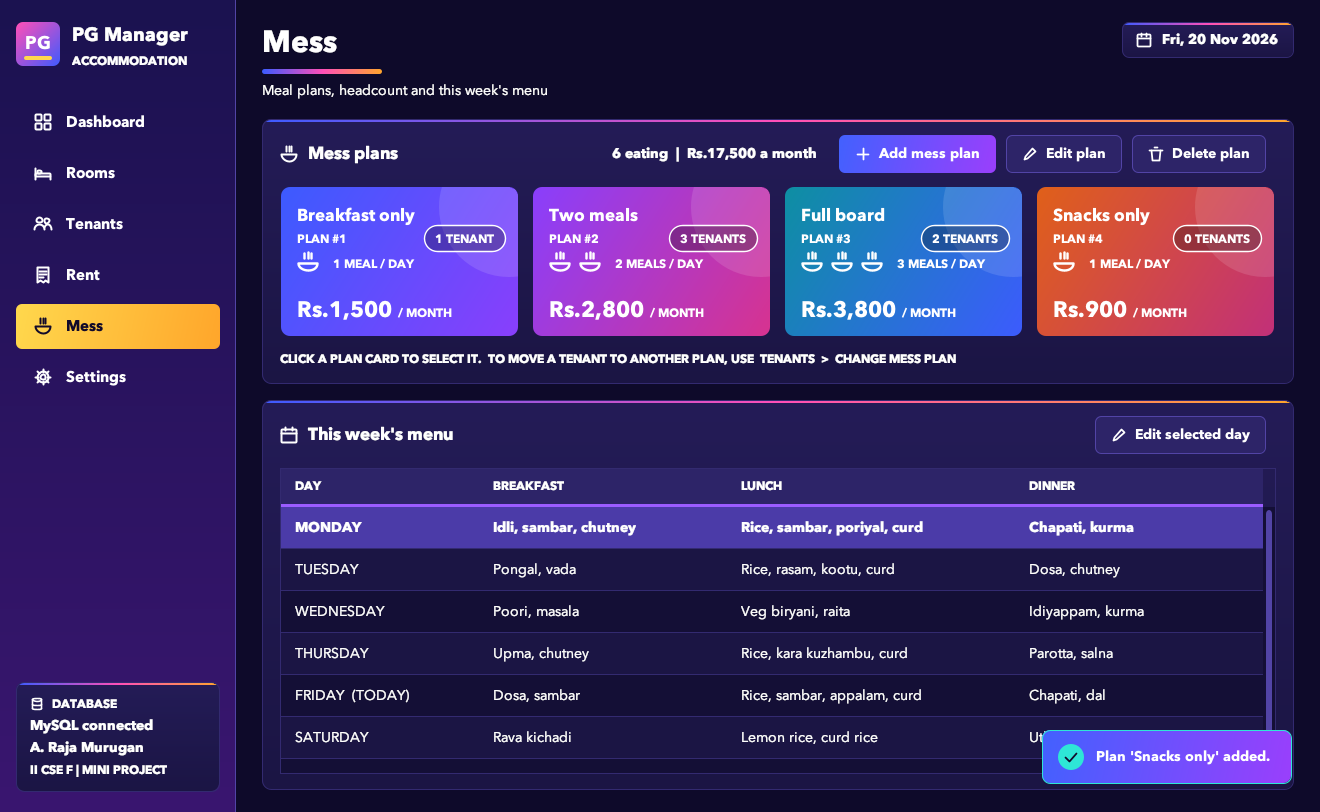
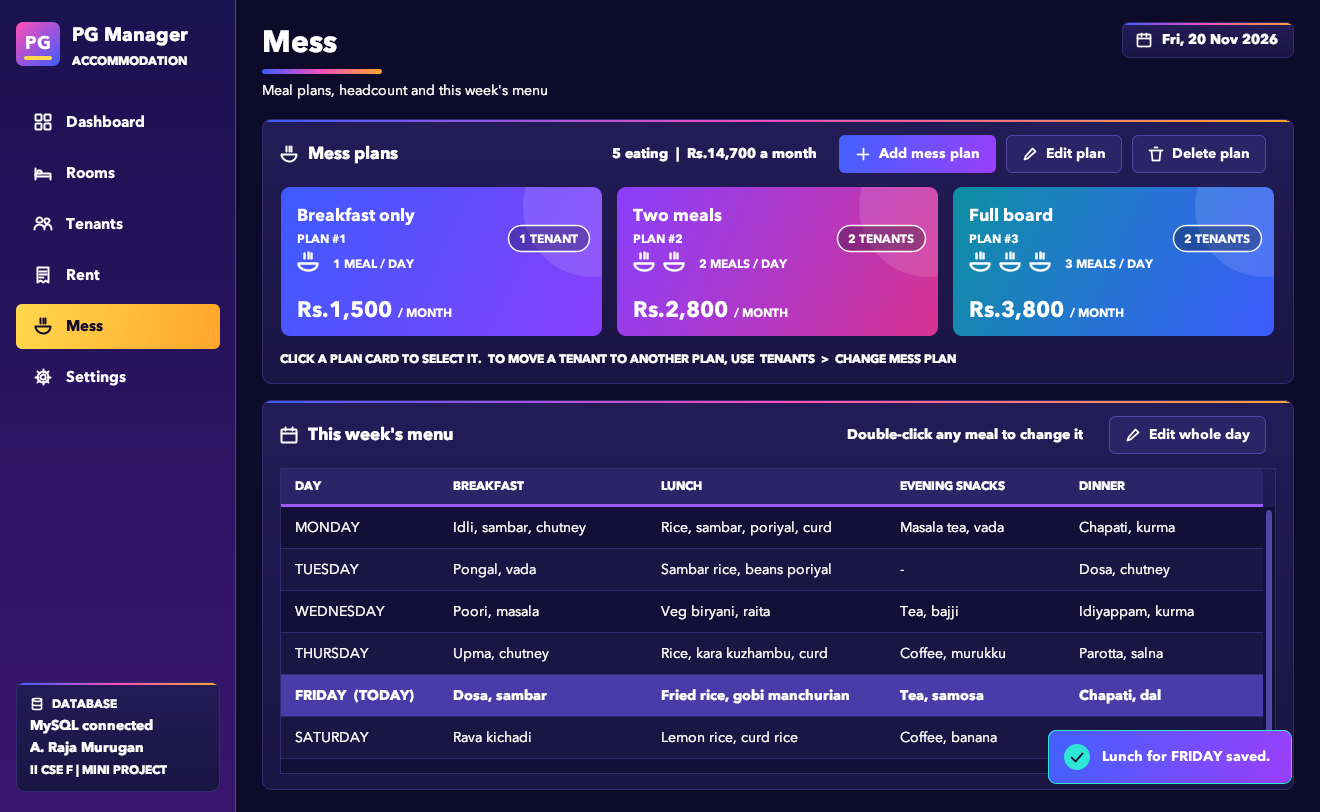
Editable food menu: evening snacks meal and double-click to edit one meal
Adds an optional snacks column to mess_menu (added automatically on older
databases), double-click editing of a single meal in the GUI, and per-meal
keep-or-replace editing in the console.

diff --git a/docs/index.html b/docs/index.html
@@ -178,7 +178,7 @@ svg text{fill:#FFFFFF !important}
     <div class="facts">
       <span class="fact">Java 8+</span><span class="fact">JDBC</span><span class="fact">MySQL</span><span class="fact">Swing GUI + console</span><span class="fact">DS: Array</span>
     </div>
-    <div class="shot"><img src="gui-dashboard.png?v=3" alt="Dashboard of the app: occupancy, tenants, collected and pending cards, a bed map for each room, a collection ring, a six-month bar chart and the list of tenants who still owe this month." width="1320" height="812"></div>
+    <div class="shot"><img src="gui-dashboard.png?v=4" alt="Dashboard of the app: occupancy, tenants, collected and pending cards, a bed map for each room, a collection ring, a six-month bar chart and the list of tenants who still owe this month." width="1320" height="812"></div>
   </div>
 
   <section id="features">
@@ -208,7 +208,7 @@ svg text{fill:#FFFFFF !important}
           <span class="bar" style="background:var(--gold)"></span>
           <div class="ico"><svg viewBox="0 0 24 24" fill="none" stroke="#fff" stroke-width="1.8" stroke-linecap="round" stroke-linejoin="round" aria-hidden="true"><path d="M2 11h20a10 9 0 0 1-20 0z"/><path d="M8 3v5M12 2v6M16 3v5"/></svg></div>
           <h3>Mess</h3>
-          <ul><li>Meal plans with headcount and income</li><li>Add plans; move tenants between them</li><li>Weekly menu, with today marked</li><li>Mess charge added to the monthly bill</li></ul>
+          <ul><li>Meal plans with headcount and income</li><li>Add plans; move tenants between them</li><li>Weekly food menu: breakfast, lunch, evening snacks, dinner; double-click to edit</li><li>Mess charge added to the monthly bill</li></ul>
         </article>
       </div>
     </div>
@@ -227,13 +227,14 @@ svg text{fill:#FFFFFF !important}
             <tr><td>Payment</td><td>Amount, date, mode, note, or delete it</td><td>Payments can't add up to more than the bill</td></tr>
             <tr><td>Bill</td><td>One month's room rent and mess charge</td><td>Can't go below what is already paid</td></tr>
             <tr><td>Mess plan</td><td>Name, meals, charge, or delete it</td><td>A plan someone has used is kept</td></tr>
+            <tr><td>Food menu</td><td>Breakfast, lunch, evening snacks and dinner for each day; double-click a meal to change it</td><td>Breakfast, lunch and dinner can't be left empty</td></tr>
             <tr><td>App names</td><td>PG name, tagline, owner name, footer line</td><td>Shown live in the sidebar and title</td></tr>
           </tbody>
         </table>
       </div>
       <div class="gallery" style="margin-top:22px">
-        <figure><img src="gui-settings.png?v=3" alt="Settings page: fields for PG name, tagline, owner name and footer line; the sidebar shows the new name Sri Murugan PG." loading="lazy" width="1320" height="812"><figcaption><b>Settings</b>Rename the PG; the sidebar and window title change at once.</figcaption></figure>
-        <figure><img src="gui-edit-payment.png?v=3" alt="Edit payment form: receipt picker, amount, mode, paid on date, note, and a Delete this receipt checkbox." loading="lazy" width="497" height="386"><figcaption><b>Edit payment</b>Pick a receipt, fix it, or delete it.</figcaption></figure>
+        <figure><img src="gui-settings.png?v=4" alt="Settings page: fields for PG name, tagline, owner name and footer line; the sidebar shows the new name Sri Murugan PG." loading="lazy" width="1320" height="812"><figcaption><b>Settings</b>Rename the PG; the sidebar and window title change at once.</figcaption></figure>
+        <figure><img src="gui-edit-payment.png?v=4" alt="Edit payment form: receipt picker, amount, mode, paid on date, note, and a Delete this receipt checkbox." loading="lazy" width="497" height="386"><figcaption><b>Edit payment</b>Pick a receipt, fix it, or delete it.</figcaption></figure>
       </div>
     </div>
   </section>
@@ -248,12 +249,12 @@ svg text{fill:#FFFFFF !important}
         <span class="pill" style="border-color:var(--magenta);background:#6A1A55"><svg viewBox="0 0 14 14" aria-hidden="true"><circle cx="7" cy="7" r="5" fill="none" stroke="#fff" stroke-width="2"/></svg>UNPAID: empty circle</span>
       </div>
       <div class="gallery" style="margin-top:22px">
-        <figure><img src="gui-rooms.png?v=3" alt="Rooms page with room cards; room 101 is selected with a gold outline and the word SELECTED." loading="lazy" width="1320" height="812"><figcaption><b>Rooms</b>Each room is a card. A taken bed is filled; a free bed is an outline.</figcaption></figure>
-        <figure><img src="gui-tenants.png?v=3" alt="Tenants page: a search box and a table with initials avatars and ACTIVE status pills." loading="lazy" width="1320" height="812"><figcaption><b>Tenants</b>Search filters as you type. Register, shift, change plan, check out.</figcaption></figure>
-        <figure><img src="gui-rent.png?v=3" alt="Rent page: billed, collected and pending cards above a dues table with UNPAID and PARTIAL pills." loading="lazy" width="1320" height="812"><figcaption><b>Rent</b>Billed, collected and pending for the month, with the most pending first.</figcaption></figure>
-        <figure><img src="gui-mess.png?v=3" alt="Mess page: four plan cards with bowl icons and tenant counts, and the weekly menu table." loading="lazy" width="1320" height="812"><figcaption><b>Mess</b>Plan cards with headcount, and the weekly menu with today marked.</figcaption></figure>
-        <figure><img src="gui-register-form.png?v=3" alt="Register a tenant form with fields for name, mobile, email, gender, occupation, room, mess plan, joining date and deposit." loading="lazy" width="512" height="515"><figcaption><b>Register form</b>The room list offers only rooms with a free bed. A wrong entry shows a message and keeps what you typed.</figcaption></figure>
-        <figure><img src="gui-statement.png?v=3" alt="Statement pop-up for a tenant: month-by-month bill, paid, pending and status, followed by receipts." loading="lazy" width="740" height="391"><figcaption><b>Statement</b>Month by month from joining, with every receipt listed.</figcaption></figure>
+        <figure><img src="gui-rooms.png?v=4" alt="Rooms page with room cards; room 101 is selected with a gold outline and the word SELECTED." loading="lazy" width="1320" height="812"><figcaption><b>Rooms</b>Each room is a card. A taken bed is filled; a free bed is an outline.</figcaption></figure>
+        <figure><img src="gui-tenants.png?v=4" alt="Tenants page: a search box and a table with initials avatars and ACTIVE status pills." loading="lazy" width="1320" height="812"><figcaption><b>Tenants</b>Search filters as you type. Register, shift, change plan, check out.</figcaption></figure>
+        <figure><img src="gui-rent.png?v=4" alt="Rent page: billed, collected and pending cards above a dues table with UNPAID and PARTIAL pills." loading="lazy" width="1320" height="812"><figcaption><b>Rent</b>Billed, collected and pending for the month, with the most pending first.</figcaption></figure>
+        <figure><img src="gui-mess.png?v=4" alt="Mess page: four plan cards with bowl icons and tenant counts, and the weekly menu table." loading="lazy" width="1320" height="812"><figcaption><b>Mess</b>Plan cards with headcount, and the weekly menu with today marked.</figcaption></figure>
+        <figure><img src="gui-register-form.png?v=4" alt="Register a tenant form with fields for name, mobile, email, gender, occupation, room, mess plan, joining date and deposit." loading="lazy" width="512" height="515"><figcaption><b>Register form</b>The room list offers only rooms with a free bed. A wrong entry shows a message and keeps what you typed.</figcaption></figure>
+        <figure><img src="gui-statement.png?v=4" alt="Statement pop-up for a tenant: month-by-month bill, paid, pending and status, followed by receipts." loading="lazy" width="740" height="391"><figcaption><b>Statement</b>Month by month from joining, with every receipt listed.</figcaption></figure>
       </div>
     </div>
   </section>

diff --git a/src/com/pgms/gui/MessPanel.java b/src/com/pgms/gui/MessPanel.java
@@ -26,7 +26,7 @@ public class MessPanel extends JPanel implements Screen {
 
     private final MessService mess = new MessService();
     private final JPanel planGrid = new JPanel(new GridLayout(1, 0, 14, 0));
-    private final DefaultTableModel menu = Ui.model("Day", "Breakfast", "Lunch", "Dinner");
+    private final DefaultTableModel menu = Ui.model("Day", "Breakfast", "Lunch", "Evening snacks", "Dinner");
     private final JTable menuTable = Ui.table(menu);
     private final JLabel summary = Ui.bold(" ");
     private DynamicArray<DayMenu> week = new DynamicArray<DayMenu>();
@@ -51,14 +51,27 @@ public class MessPanel extends JPanel implements Screen {
         plans.add(Ui.small("CLICK A PLAN CARD TO SELECT IT.  TO MOVE A TENANT TO ANOTHER PLAN, USE  TENANTS  >  CHANGE MESS PLAN"), BorderLayout.SOUTH);
         add(plans, BorderLayout.NORTH);
 
-        JButton editDay = Ui.secondary("Edit selected day", "edit");
+        JButton editDay = Ui.secondary("Edit whole day", "edit");
         RoundPanel week = new RoundPanel(new BorderLayout(0, 14), 18);
         JPanel head2 = new JPanel(new BorderLayout());
         head2.setOpaque(false);
         head2.add(Ui.heading("This week's menu", "calendar"), BorderLayout.WEST);
-        head2.add(Ui.rowRight(editDay), BorderLayout.EAST);
+        head2.add(Ui.rowRight(Ui.bold("Double-click any meal to change it"), Ui.gap(6), editDay), BorderLayout.EAST);
         week.add(head2, BorderLayout.NORTH);
-        Ui.widths(menuTable, 170, 220, 260, 220);
+        Ui.widths(menuTable, 150, 200, 230, 170, 190);
+        menuTable.setToolTipText("Double-click a meal to change it");
+        menuTable.addMouseListener(new java.awt.event.MouseAdapter() {
+            @Override
+            public void mouseClicked(java.awt.event.MouseEvent e) {
+                if (e.getClickCount() == 2) {
+                    int r = menuTable.rowAtPoint(e.getPoint());
+                    int c = menuTable.columnAtPoint(e.getPoint());
+                    if (r >= 0) {
+                        editMeal(r, c);
+                    }
+                }
+            }
+        });
         week.add(Ui.scroll(menuTable), BorderLayout.CENTER);
         add(week, BorderLayout.CENTER);
 
@@ -102,7 +115,8 @@ public class MessPanel extends JPanel implements Screen {
             menu.setRowCount(0);
             for (DayMenu d : week) {
                 String day = d.getDay().equals(today) ? d.getDay() + "  (TODAY)" : d.getDay();
-                menu.addRow(new Object[] {day, d.getBreakfast(), d.getLunch(), d.getDinner()});
+                menu.addRow(new Object[] {day, d.getBreakfast(), d.getLunch(),
+                        d.getSnacks().isEmpty() ? "-" : d.getSnacks(), d.getDinner()});
             }
             for (int i = 0; i < week.size(); i++) {
                 if (week.get(i).getDay().equals(today)) {
@@ -141,9 +155,11 @@ public class MessPanel extends JPanel implements Screen {
         f.note(d.getDay());
         JTextField b = f.text("Breakfast", d.getBreakfast());
         JTextField l = f.text("Lunch", d.getLunch());
+        JTextField s = f.text("Evening snacks", d.getSnacks());
         JTextField n = f.text("Dinner", d.getDinner());
+        f.note("Leave evening snacks empty if there are none that day.");
         boolean saved = f.show(this, "Edit menu", () ->
-                mess.updateMenu(d.getDay(), Form.required(b), Form.required(l), Form.required(n)));
+                mess.updateMenu(d.getDay(), Form.required(b), Form.required(l), s.getText(), Form.required(n)));
         if (saved) {
             refresh();
             Toast.show(this, "Menu for " + d.getDay() + " saved.");
@@ -204,6 +220,30 @@ public class MessPanel extends JPanel implements Screen {
             }
         } catch (Exception e) {
             Ui.problem(this, e);
+        }
+    }
+
+    /** Change one meal (double-click on its cell). Column 0 (the day) edits the whole day. */
+    void editMeal(int row, int col) {
+        if (col <= 0) {
+            menuTable.setRowSelectionInterval(row, row);
+            editDay();
+            return;
+        }
+        final DayMenu d = week.get(row);
+        final int meal = col - 1;
+        final String name = DayMenu.MEALS[meal];
+        Form f = new Form();
+        f.note(name + " on " + d.getDay());
+        JTextField food = f.text(name, d.meal(meal));
+        if (meal == 2) {
+            f.note("Leave empty if there are no snacks that day.");
+        }
+        boolean saved = f.show(this, "Edit " + name.toLowerCase(), () ->
+                mess.updateMeal(d.getDay(), meal, meal == 2 ? food.getText() : Form.required(food)));
+        if (saved) {
+            refresh();
+            Toast.show(this, name + " for " + d.getDay() + " saved.");
         }
     }
 }

diff --git a/src/com/pgms/dao/MessDAO.java b/src/com/pgms/dao/MessDAO.java
@@ -47,11 +47,11 @@ public class MessDAO {
         DynamicArray<DayMenu> week = new DynamicArray<DayMenu>(7);
         try (Connection c = DBConnection.getConnection();
              PreparedStatement ps = c.prepareStatement(
-                     "SELECT day_of_week, breakfast, lunch, dinner FROM mess_menu "
+                     "SELECT day_of_week, breakfast, lunch, snacks, dinner FROM mess_menu "
                      + "ORDER BY FIELD(day_of_week,'MONDAY','TUESDAY','WEDNESDAY','THURSDAY','FRIDAY','SATURDAY','SUNDAY')");
              ResultSet rs = ps.executeQuery()) {
             while (rs.next()) {
-                week.add(new DayMenu(rs.getString(1), rs.getString(2), rs.getString(3), rs.getString(4)));
+                week.add(new DayMenu(rs.getString(1), rs.getString(2), rs.getString(3), rs.getString(4), rs.getString(5)));
             }
         }
         return week;
@@ -60,11 +60,12 @@ public class MessDAO {
     public void updateMenu(DayMenu menu) throws SQLException {
         try (Connection c = DBConnection.getConnection();
              PreparedStatement ps = c.prepareStatement(
-                     "REPLACE INTO mess_menu (day_of_week, breakfast, lunch, dinner) VALUES (?, ?, ?, ?)")) {
+                     "REPLACE INTO mess_menu (day_of_week, breakfast, lunch, snacks, dinner) VALUES (?, ?, ?, ?, ?)")) {
             ps.setString(1, menu.getDay());
             ps.setString(2, menu.getBreakfast());
             ps.setString(3, menu.getLunch());
-            ps.setString(4, menu.getDinner());
+            ps.setString(4, menu.getSnacks());
+            ps.setString(5, menu.getDinner());
             ps.executeUpdate();
         }
     }
@@ -86,6 +87,24 @@ public class MessDAO {
              PreparedStatement ps = c.prepareStatement("DELETE FROM mess_plans WHERE plan_id = ?")) {
             ps.setInt(1, planId);
             ps.executeUpdate();
+        }
+    }
+
+    /** Adds the snacks column to menus made before it existed. Safe to call every start. */
+    public void ensureSnacksColumn() throws SQLException {
+        try (Connection c = DBConnection.getConnection()) {
+            boolean has;
+            try (PreparedStatement ps = c.prepareStatement(
+                    "SELECT 1 FROM information_schema.COLUMNS WHERE TABLE_SCHEMA = DATABASE() "
+                    + "AND TABLE_NAME = 'mess_menu' AND COLUMN_NAME = 'snacks'");
+                 ResultSet rs = ps.executeQuery()) {
+                has = rs.next();
+            }
+            if (!has) {
+                try (Statement st = c.createStatement()) {
+                    st.executeUpdate("ALTER TABLE mess_menu ADD COLUMN snacks VARCHAR(80) NOT NULL DEFAULT '' AFTER lunch");
+                }
+            }
         }
     }
 }

diff --git a/src/com/pgms/ui/MessMenu.java b/src/com/pgms/ui/MessMenu.java
@@ -36,7 +36,7 @@ public class MessMenu {
             System.out.println("2. Add a mess plan");
             System.out.println("3. Change a tenant's mess plan");
             System.out.println("4. View this week's menu");
-            System.out.println("5. Change the menu for a day");
+            System.out.println("5. Change the food for a day");
             System.out.println("6. Edit a mess plan");
             System.out.println("7. Delete a mess plan");
             System.out.println("0. Back");
@@ -93,9 +93,10 @@ public class MessMenu {
     }
 
     private void menu() throws SQLException {
-        Table t = new Table("Day", "Breakfast", "Lunch", "Dinner");
+        Table t = new Table("Day", "Breakfast", "Lunch", "Evening snacks", "Dinner");
         for (DayMenu d : mess.weeklyMenu()) {
-            t.addRow(d.getDay(), d.getBreakfast(), d.getLunch(), d.getDinner());
+            t.addRow(d.getDay(), d.getBreakfast(), d.getLunch(), d.getSnacks().isEmpty() ? "-" : d.getSnacks(),
+                    d.getDinner());
         }
         t.print();
     }
@@ -105,10 +106,20 @@ public class MessMenu {
             System.out.println("  " + (i + 1) + ". " + DAYS[i]);
         }
         String day = DAYS[in.number("Day: ", 1, 7) - 1];
-        String b = in.text("Breakfast: ");
-        String l = in.text("Lunch: ");
-        String d = in.text("Dinner: ");
-        mess.updateMenu(day, b, l, d);
+        DayMenu old = null;
+        for (DayMenu m : mess.weeklyMenu()) {
+            if (m.getDay().equals(day)) {
+                old = m;
+            }
+        }
+        System.out.println("  Press Enter to keep the food in [brackets]. For snacks, type - for none.");
+        String[] meals = new String[4];
+        for (int i = 0; i < 4; i++) {
+            String now = old == null ? "" : old.meal(i);
+            String typed = in.line("  " + DayMenu.MEALS[i] + " [" + now + "]: ").trim();
+            meals[i] = typed.isEmpty() ? now : typed;
+        }
+        mess.updateMenu(day, meals[0], meals[1], meals[2], meals[3]);
         System.out.println("  Menu for " + day + " saved.");
     }
 

diff --git a/src/com/pgms/model/DayMenu.java b/src/com/pgms/model/DayMenu.java
@@ -2,18 +2,23 @@ package com.pgms.model;
 
 import com.pgms.util.Check;
 
-/** MESS module: what is served on one day of the week. */
+/** MESS module: what is served on one day of the week. Evening snacks are optional. */
 public class DayMenu {
 
-    private final String day;
-    private String breakfast;
-    private String lunch;
-    private String dinner;
+    public static final String[] MEALS = {"Breakfast", "Lunch", "Evening snacks", "Dinner"};
 
-    public DayMenu(String day, String breakfast, String lunch, String dinner) {
+    private final String day;
+    private final String breakfast;
+    private final String lunch;
+    private final String snacks;   // "" = no snacks that day
+    private final String dinner;
+
+    public DayMenu(String day, String breakfast, String lunch, String snacks, String dinner) {
         this.day = day;
         this.breakfast = Check.text(breakfast, 80, "Breakfast", true);
         this.lunch = Check.text(lunch, 80, "Lunch", true);
+        String s = Check.text(snacks, 80, "Evening snacks", false);
+        this.snacks = s == null || s.equals("-") ? "" : s;
         this.dinner = Check.text(dinner, 80, "Dinner", true);
     }
 
@@ -29,7 +34,30 @@ public class DayMenu {
         return lunch;
     }
 
+    public String getSnacks() {
+        return snacks;
+    }
+
     public String getDinner() {
         return dinner;
+    }
+
+    /** Meal by position in MEALS: 0 breakfast, 1 lunch, 2 snacks, 3 dinner. */
+    public String meal(int i) {
+        switch (i) {
+            case 0: return breakfast;
+            case 1: return lunch;
+            case 2: return snacks;
+            default: return dinner;
+        }
+    }
+
+    /** A copy of this day with one meal changed. */
+    public DayMenu withMeal(int i, String text) {
+        return new DayMenu(day,
+                i == 0 ? text : breakfast,
+                i == 1 ? text : lunch,
+                i == 2 ? text : snacks,
+                i == 3 ? text : dinner);
     }
 }

diff --git a/src/com/pgms/service/MessService.java b/src/com/pgms/service/MessService.java
@@ -56,12 +56,42 @@ public class MessService {
         return new MessPlan(id, clean, mealsPerDay, monthlyCharge);
     }
 
+    private static boolean menuChecked;
+
+    private void upgradeMenu() throws SQLException {
+        if (!menuChecked) {
+            dao.ensureSnacksColumn();
+            menuChecked = true;
+        }
+    }
+
     public DynamicArray<DayMenu> weeklyMenu() throws SQLException {
+        upgradeMenu();
         return dao.findMenu();
     }
 
-    public void updateMenu(String day, String breakfast, String lunch, String dinner) throws SQLException {
-        dao.updateMenu(new DayMenu(day, breakfast.trim(), lunch.trim(), dinner.trim()));
+    /** Replace a whole day's menu. Snacks may be empty (none that day). */
+    public void updateMenu(String day, String breakfast, String lunch, String snacks, String dinner)
+            throws SQLException {
+        upgradeMenu();
+        dao.updateMenu(new DayMenu(day, breakfast, lunch, snacks, dinner));
+    }
+
+    /** Change just one meal of one day; meal: 0 breakfast, 1 lunch, 2 snacks, 3 dinner. */
+    public DayMenu updateMeal(final String day, int meal, String text) throws SQLException {
+        DynamicArray<DayMenu> week = weeklyMenu();
+        int i = week.indexOf(new DynamicArray.Matcher<DayMenu>() {
+            @Override
+            public boolean matches(DayMenu d) {
+                return d.getDay().equals(day);
+            }
+        });
+        if (i < 0) {
+            throw new IllegalArgumentException("No menu for " + day);
+        }
+        DayMenu changed = week.get(i).withMeal(meal, text);
+        dao.updateMenu(changed);
+        return changed;
     }
 
     /**

diff --git a/README.md b/README.md
@@ -108,7 +108,7 @@ safety rules still apply to every edit.
 | **Payment** | amount, date, mode, note, or delete it (**Rent → Edit payment**) | a month's payments can never add up to more than its bill; no future dates |
 | **Bill** | one month's room rent and mess charge, e.g. a discount (**Rent → Edit bill**) | cannot go below what is already paid; no future months |
 | **Mess plan** | name, meals, charge, or delete it (click a plan card, then **Edit plan / Delete plan**) | names unique; a plan any tenant has used cannot be deleted |
-| **Menu** | any day's meals (**Mess → Edit selected day**) | - |
+| **Food menu** | breakfast, lunch, evening snacks, dinner for every day: **double-click a meal** to change just that one, or **Edit whole day** | breakfast, lunch and dinner can't be empty; snacks are optional |
 | **Names in the app** | PG name, tagline, owner name, footer line (**Settings** page) | shown live in the sidebar and window title |
 
 Room shifts, mess-plan changes and check-outs have their own buttons, because they
